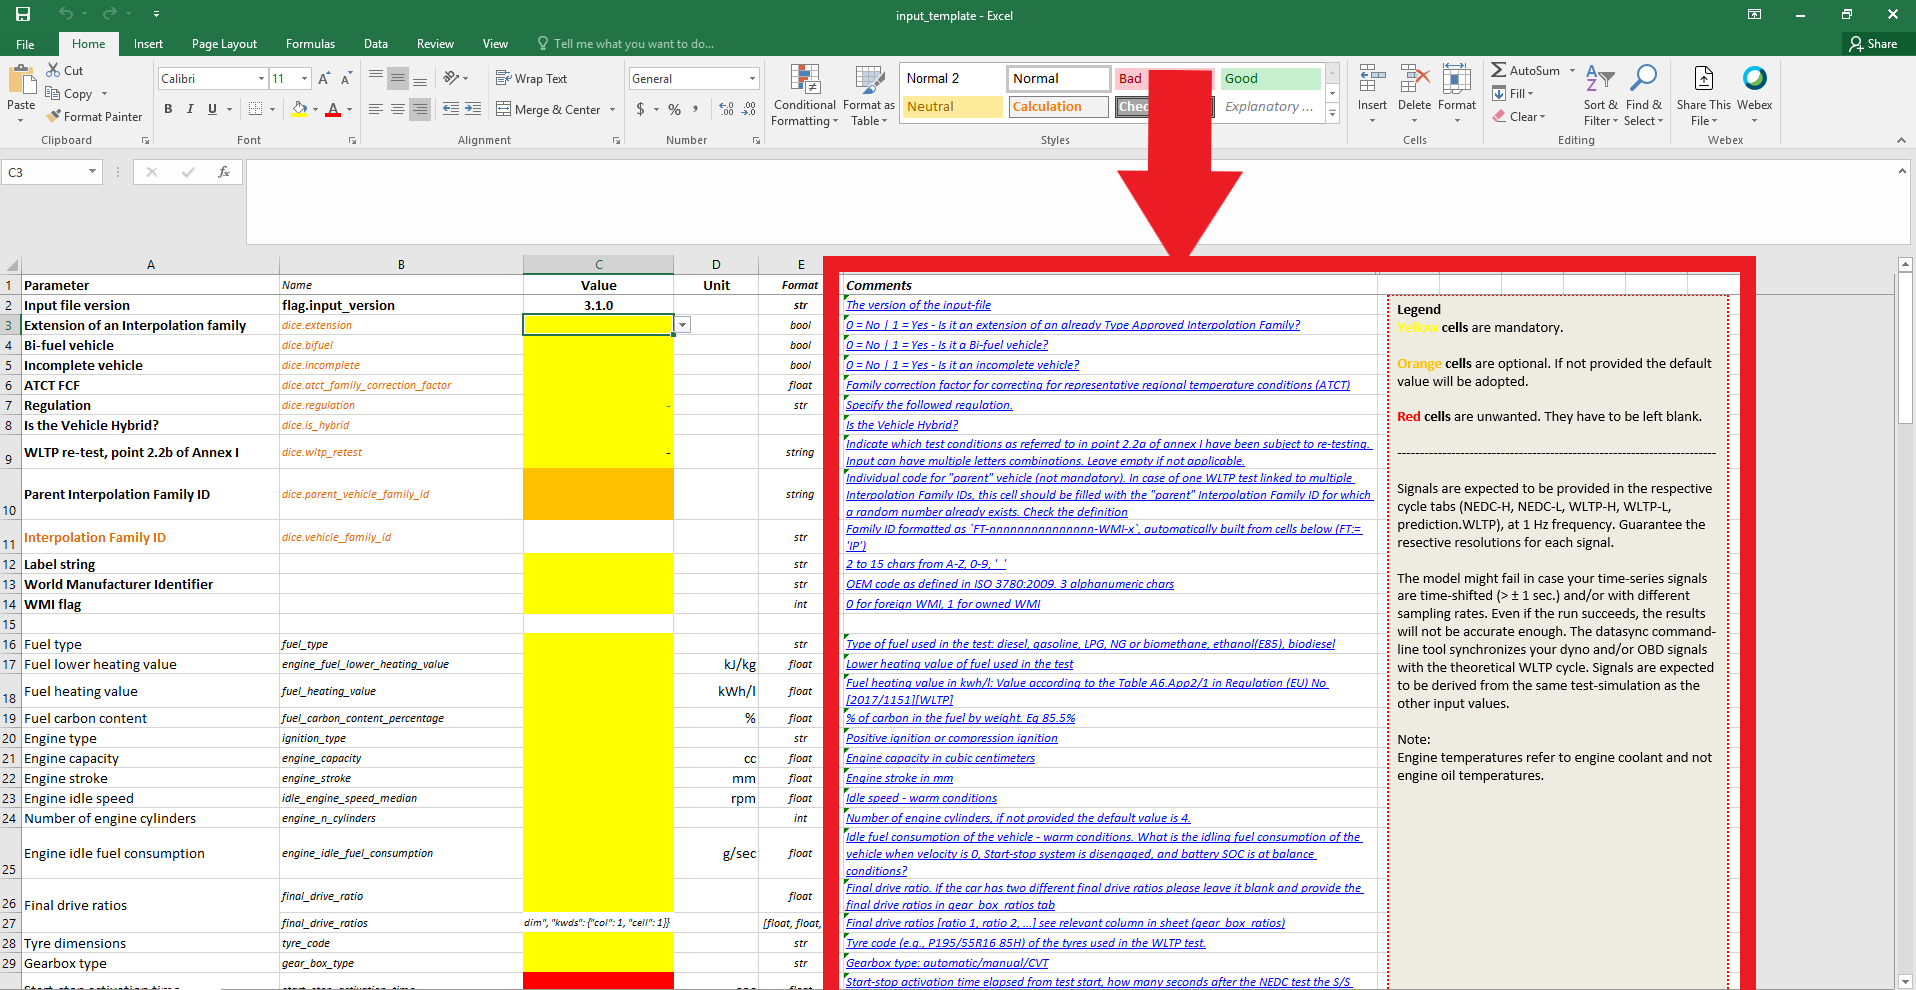
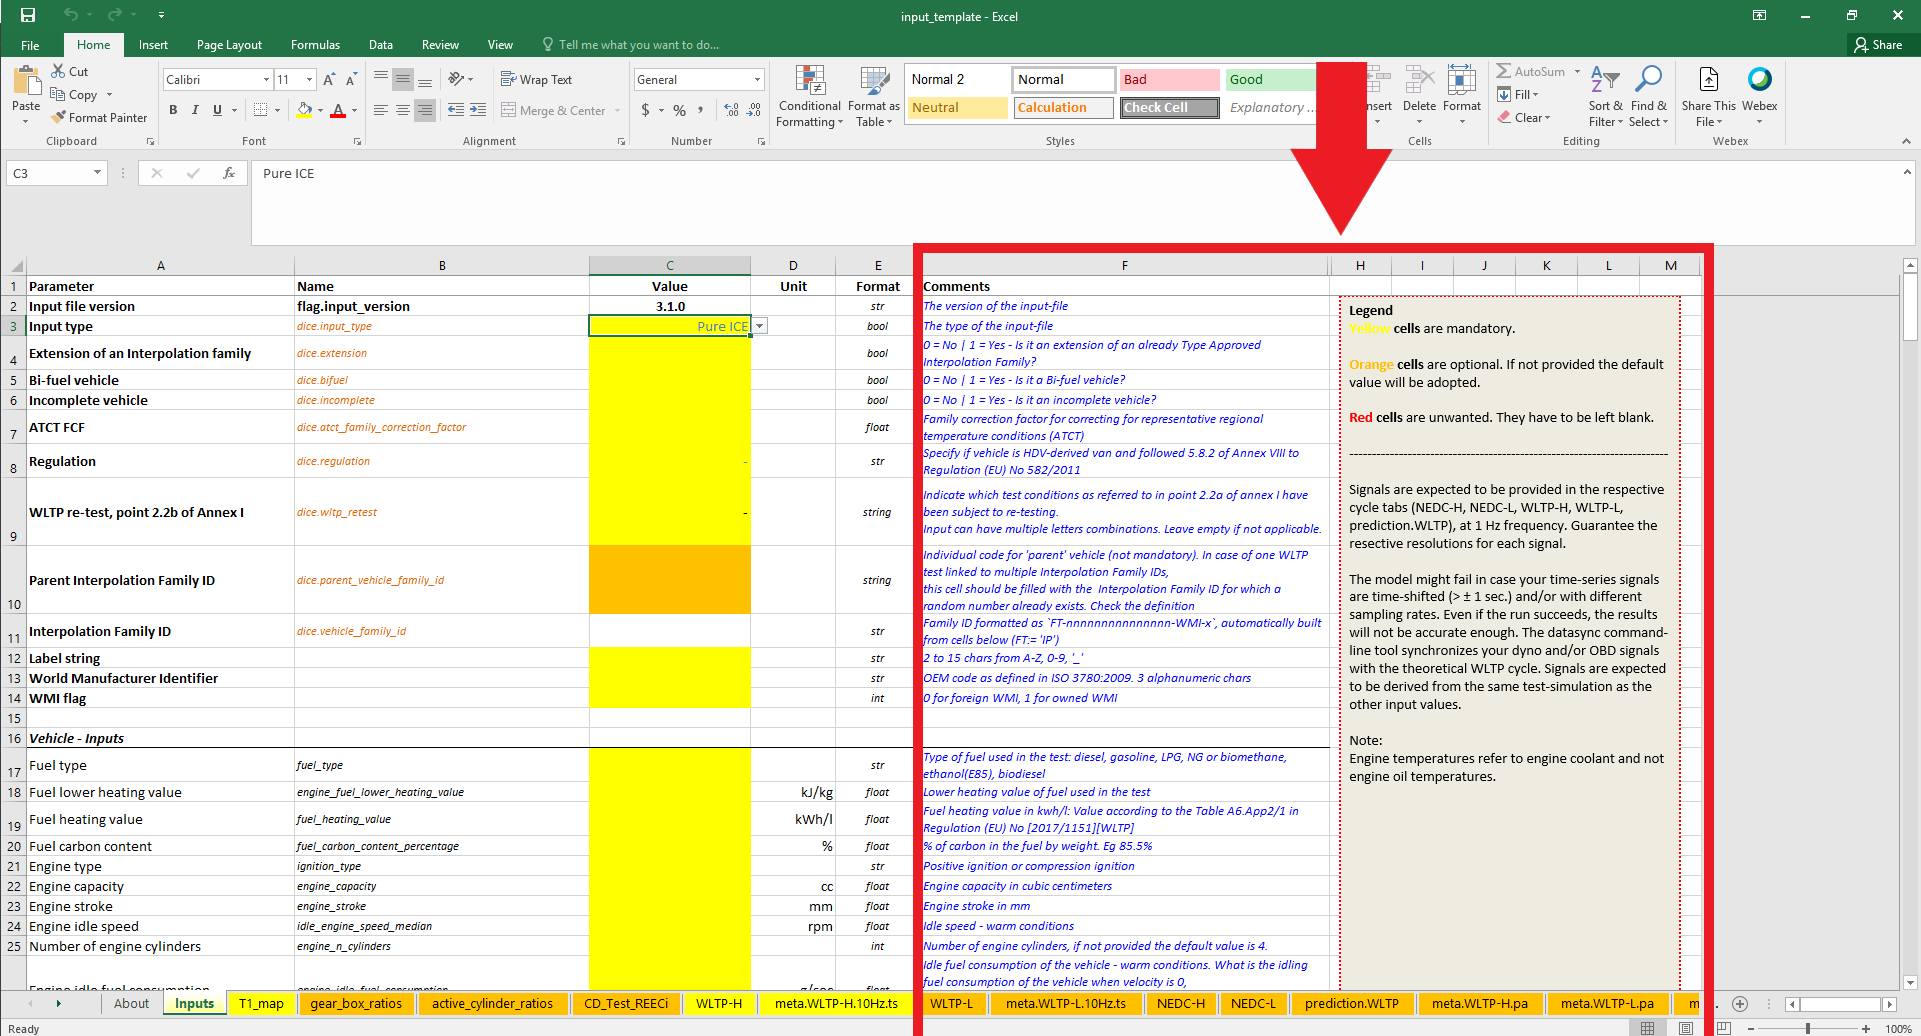
fix(doc), #533: Corrected Kostis' mail and the input file image.

diff --git a/AUTHORS.rst b/AUTHORS.rst
@@ -1,4 +1,4 @@
-    - Anagnostopoulos Kostis <ankostis@gmail>
+    - Anagnostopoulos Kostis <kostis.anagnostopoulos@ext.ec.europa.eu>
     - Arcidiacono Vincenzo <vincenzo.arcidiacono@ext.ec.europa.eu>
     - Ciuffo Biagio <biagio.ciuffo@ec.europa.eu>
     - Corsi Stefano <stefano.corsi@ext.ec.europa.eu>
